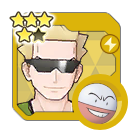
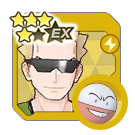
Add v2.30.0

diff --git a/js/syncpairs.js b/js/syncpairs.js
@@ -449,7 +449,9 @@ export const SYNCPAIRS = [
 		"images": [
 			"Sync Pairs/0A_KANTO/0A_KANTO_0B-03a_LtSurge.png",
 			"Sync Pairs/4Star/0A_KANTO_0B-03a_LtSurge_4Star.png",
-			"Sync Pairs/5Star/0A_KANTO_0B-03a_LtSurge_5Star.png"
+			"Sync Pairs/5Star/0A_KANTO_0B-03a_LtSurge_5Star.png",
+			"Sync Pairs/0A_KANTO/0A_KANTO_0B-03a_LtSurge_EX.png"
+
 		],
 		"themes": [
 			"Electric",
@@ -6704,7 +6706,8 @@ export const SYNCPAIRS = [
 			"Poké Fair",
 			"Multiple Units",
 			"isWoman",
-			"Legendary"
+			"Legendary",
+			"Rebuff"
 		]
 	},
 	{
@@ -6774,6 +6777,39 @@ export const SYNCPAIRS = [
 			"Multiple Units",
 			"isWoman",
 			"Legendary"
+		]
+	},
+	{
+		"dexNumber": "111",
+		"trainerName": "Gloria",
+		"trainerAlt": "Lodge",
+		"pokemonNumber": "0811",
+		"pokemonName": "Thwackey",
+		"pokemonGender": "♂",
+		"pokemonForm": [],
+		"pokemonType": "Grass",
+		"pokemonWeak": "Fire",
+		"syncPairRole": "Physical Strike",
+		"syncPairRarity": "4",
+		"releaseDate": "2023-03-01",
+		"syncPairRegion": "8Galar",
+		"images": [
+			"Sync Pairs/0H_GALAR/0H_GALAR_0A-02_TL_Gloria.png",
+			"Sync Pairs/5Star/0H_GALAR_0A-02_TL_Gloria_5Star.png"
+		],
+		"themes": [
+			"Grass",
+			"Galar",
+			"Main Character",
+			"Cook",
+			"Galar Adventurer"
+		],
+		"tags": [
+			"isWoman",
+			"Limited Sync Pair Scout",
+			"Multiple Units",
+			"Trainer Lodge",
+			"Starter"
 		]
 	},
 	{
@@ -7569,6 +7605,43 @@ export const SYNCPAIRS = [
 			"Multiple Units",
 			"Limited Sync Pair Scout",
 			"isWoman"
+		]
+	},
+	{
+		"dexNumber": "119",
+		"trainerName": "Marnie",
+		"trainerAlt": "Champion",
+		"pokemonNumber": "0146",
+		"pokemonName": "Moltres",
+		"pokemonGender": "",
+		"pokemonForm": [
+			"Regional Form",
+			"Galarian Form"
+		],
+		"pokemonType": "Dark",
+		"pokemonWeak": "Fairy",
+		"syncPairRole": "Special Strike",
+		"syncPairRarity": "5",
+		"releaseDate": "2023-02-28",
+		"syncPairRegion": "8Galar",
+		"images": [
+			"Sync Pairs/0H_GALAR/0H_GALAR_0A-04_NeoChampMarnie.png",
+			"Sync Pairs/0H_GALAR/0H_GALAR_0A-04_NeoChampMarnie_EX.png"
+		],
+		"themes": [
+			"Dark",
+			"Galar",
+			"Champion",
+			"Pigtails",
+			"Galar Adventurer"
+		],
+		"tags": [
+			"Buddy Move",
+			"isWoman",
+			"Limited Sync Pair Scout",
+			"Master Fair",
+			"Multiple Units",
+			"Legendary"
 		]
 	},
 	{
@@ -8531,7 +8604,46 @@ export const SYNCPAIRS = [
 		],
 		"tags": [
 			"Legendary Adventures",
-			"isMan"
+			"isMan",
+			"Multiple Units"
+		]
+	},
+	{
+		"dexNumber": "141",
+		"trainerName": "Hop",
+		"trainerAlt": "Champion",
+		"pokemonNumber": "0145",
+		"pokemonName": "Zapdos",
+		"pokemonGender": "",
+		"pokemonForm": [
+			"Regional Form",
+			"Galarian Form"
+		],
+		"pokemonType": "Fighting",
+		"pokemonWeak": "Psychic",
+		"syncPairRole": "Tech",
+		"syncPairRarity": "5",
+		"releaseDate": "2023-03-02",
+		"syncPairRegion": "8Galar",
+		"images": [
+			"Sync Pairs/0H_GALAR/0H_GALAR_0A-03_NeoChampHop.png",
+			"Sync Pairs/0H_GALAR/0H_GALAR_0A-03_NeoChampHop_EX.png"
+		],
+		"themes": [
+			"Fighting",
+			"Galar",
+			"Champion",
+			"Cape",
+			"Galar Adventurer"
+		],
+		"tags": [
+			"Buddy Move",
+			"isMan",
+			"Limited Sync Pair Scout",
+			"Master Fair",
+			"Multiple Units",
+			"Wish Zone",
+			"Legendary"
 		]
 	},
 	{
@@ -8884,7 +8996,45 @@ export const SYNCPAIRS = [
 			"Poké Fair",
 			"isMan",
 			"Weather",
-			"Terrain"
+			"Terrain",
+			"Multiple Units"
+		]
+	},
+	{
+		"dexNumber": "149",
+		"trainerName": "Bede",
+		"trainerAlt": "Champion",
+		"pokemonNumber": "0144",
+		"pokemonName": "Articuno",
+		"pokemonGender": "",
+		"pokemonForm": [
+			"Regional Form",
+			"Galarian Form"
+		],
+		"pokemonType": "Psychic",
+		"pokemonWeak": "Ghost",
+		"syncPairRole": "Support",
+		"syncPairRarity": "5",
+		"releaseDate": "2023-03-04",
+		"syncPairRegion": "8Galar",
+		"images": [
+			"Sync Pairs/0H_GALAR/0H_GALAR_0A-05_NeoChampBede.png",
+			"Sync Pairs/0H_GALAR/0H_GALAR_0A-05_NeoChampBede_EX.png"
+		],
+		"themes": [
+			"Psychic",
+			"Galar",
+			"Champion",
+			"Scarf",
+			"Galar Adventurer"
+		],
+		"tags": [
+			"Buddy Move",
+			"isMan",
+			"Limited Sync Pair Scout",
+			"Master Fair",
+			"Multiple Units",
+			"Legendary"
 		]
 	},
 	{
@@ -9350,6 +9500,34 @@ export const SYNCPAIRS = [
 			"Limited Sync Pair Scout",
 			"Poké Fair"
 		]
+	},
+	{
+		"dexNumber": "165",
+		"trainerName": "Ball Guy",
+		"trainerAlt": "",
+		"pokemonNumber": "0591",
+		"pokemonName": "Amoonguss",
+		"pokemonGender": "♂",
+		"pokemonForm": [],
+		"pokemonType": "Poison",
+		"pokemonWeak": "Ice",
+		"syncPairRole": "Support",
+		"syncPairRarity": "5",
+		"releaseDate": "2023-03-21",
+		"syncPairRegion": "8Galar",
+		"images": [
+			"Sync Pairs/0H_GALAR/0H_GALAR_0F-01_BallGuy.png",
+			"Sync Pairs/0H_GALAR/0H_GALAR_0F-01_BallGuy_EX.png"
+		],
+		"themes": [
+			"Poison",
+			"Galar"
+		],
+		"tags": [
+			"isMan",
+			"Limited Sync Pair Scout",
+			"Variety"
+		]
 	}
 	/*,
 	{
@@ -9398,11 +9576,12 @@ export const SYNCPAIRS = [
 			"Fall",
 			"Holiday",
 			"Variety",
-			"Rebuff"
+			"Rebuff",
+			"Starter"
 		]
 	}
 	*/
 ]
 
 
-export const VERSION = "v2.29.0";
+export const VERSION = "v2.30.0";

diff --git a/js/news.js b/js/news.js
@@ -1,5 +1,9 @@
 export const NEWS = [
 	{
+		"date": "2023-02-24",
+		"info" : "Add v2.30.0"
+	},
+	{
 		"date": "2023-02-02",
 		"info" : "- Add visibility options\n- Add new filters"
 	},
